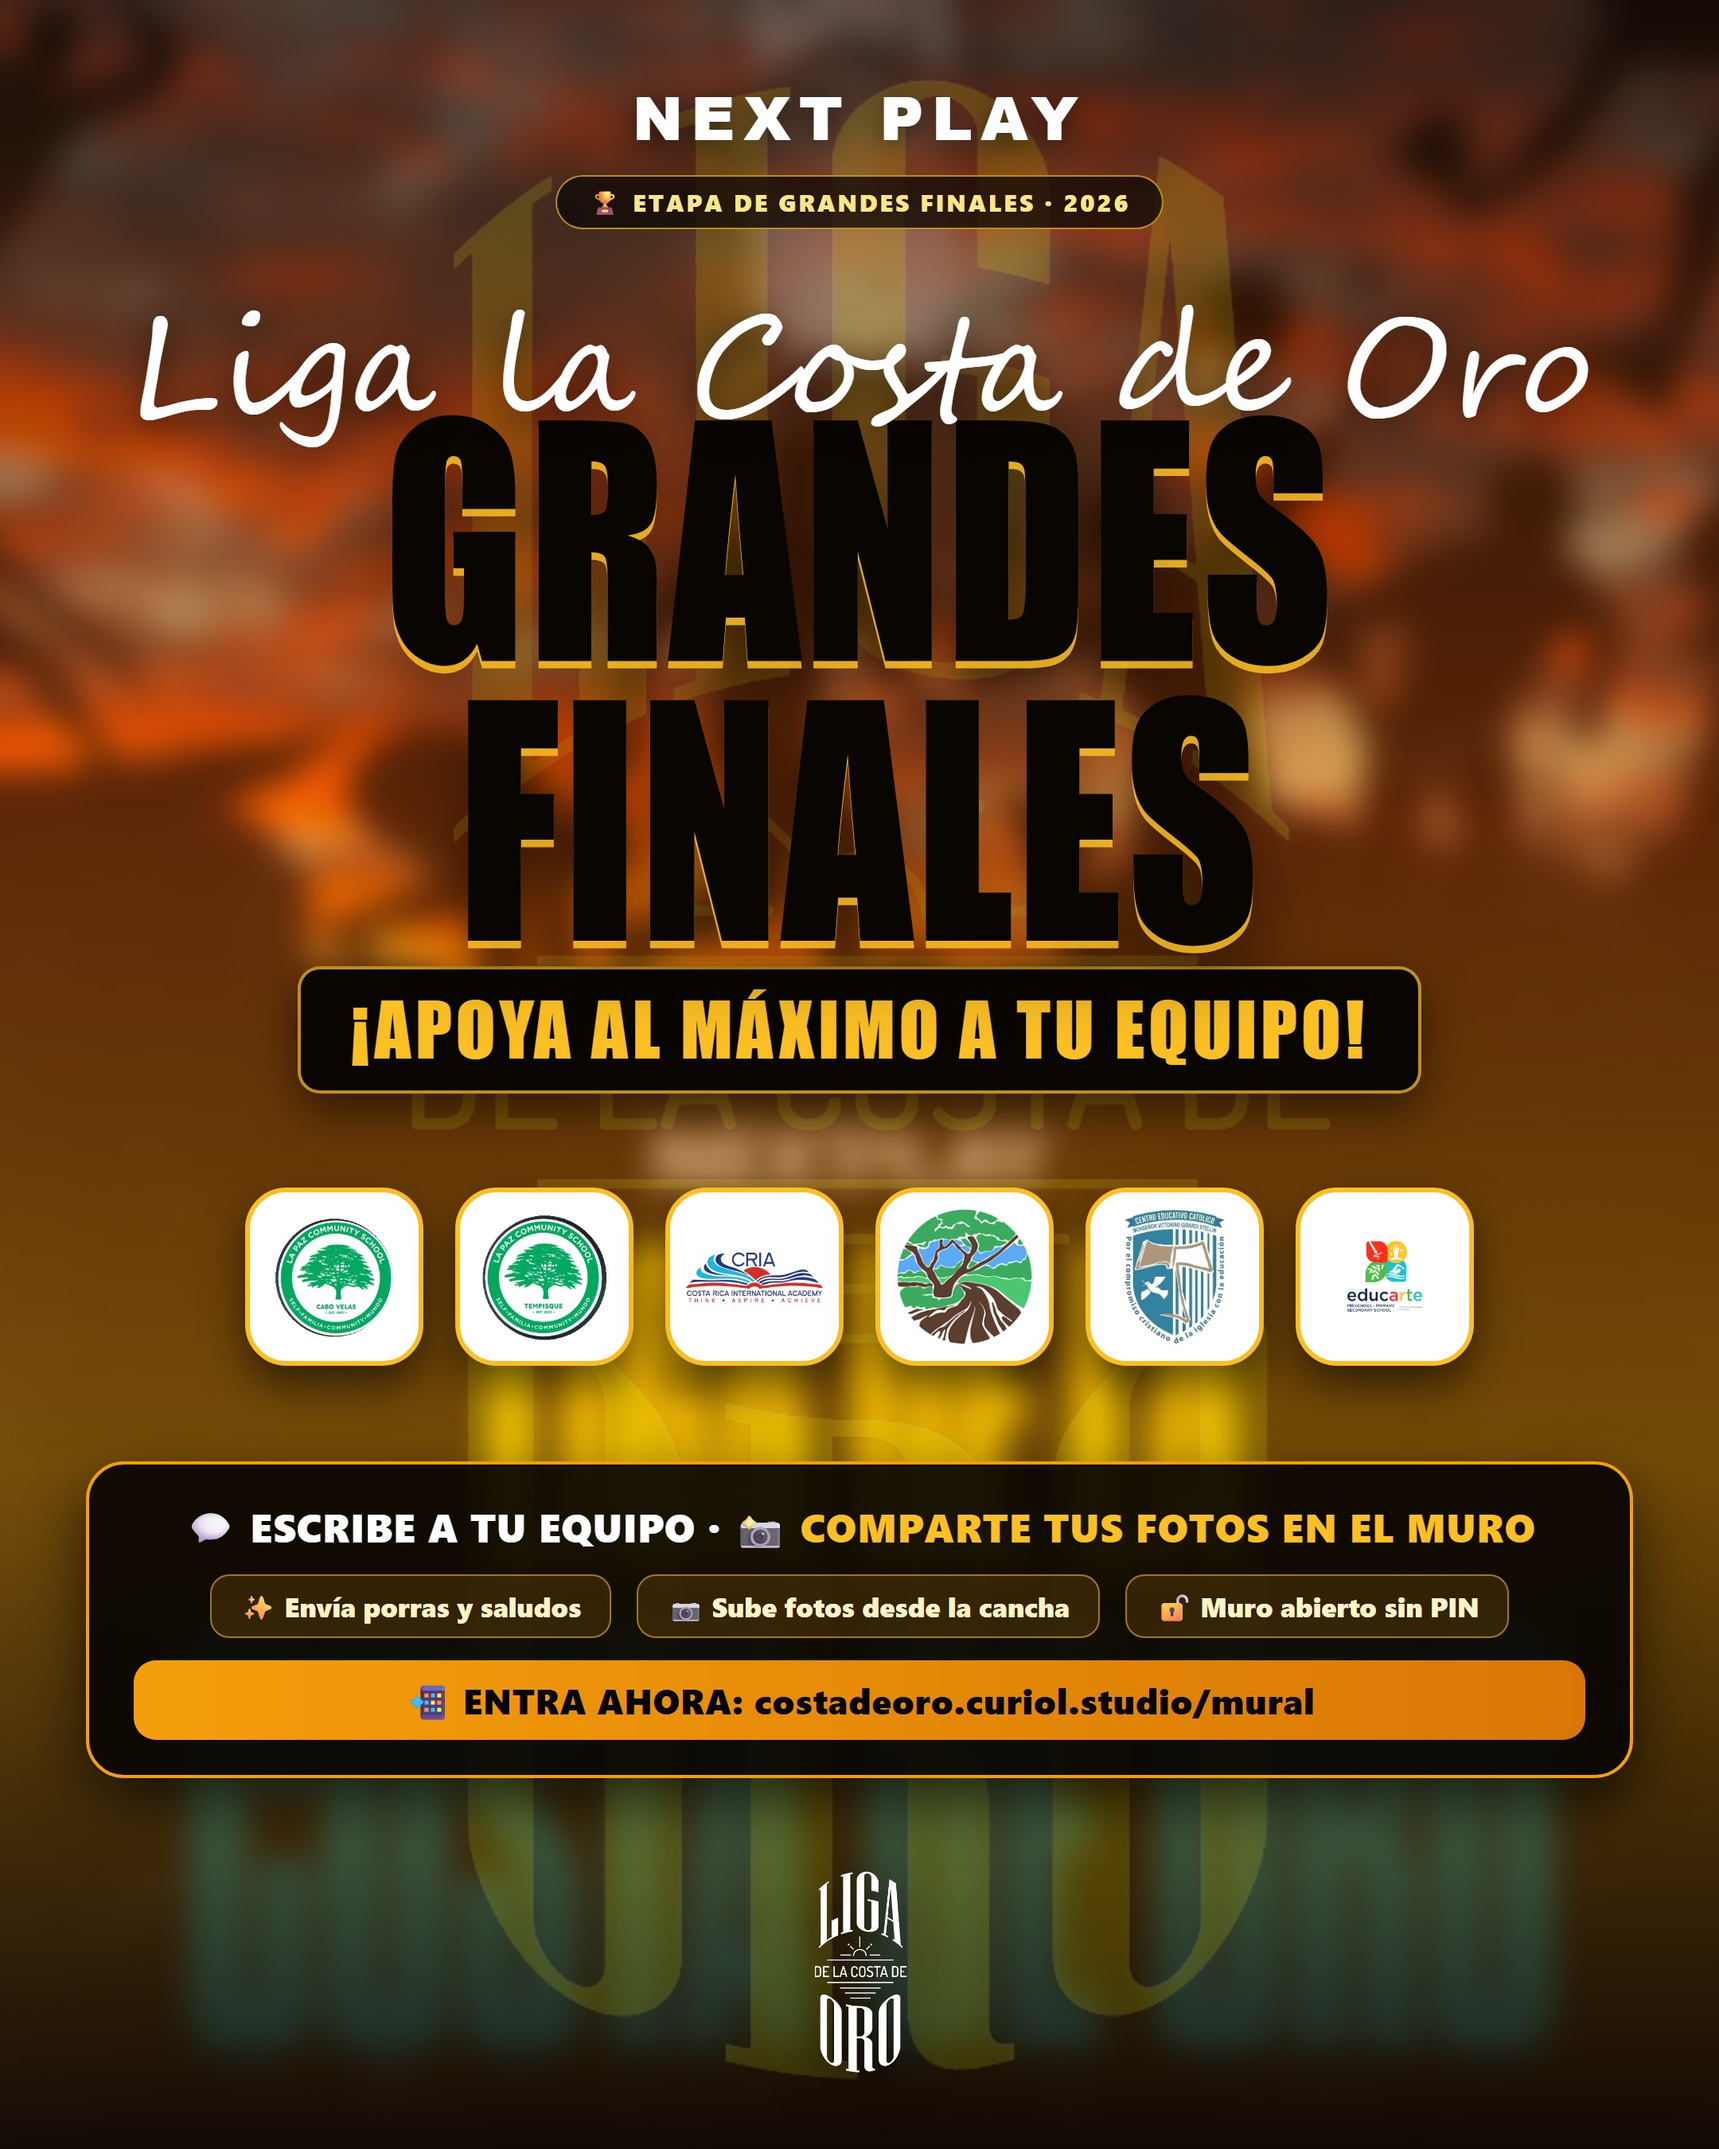
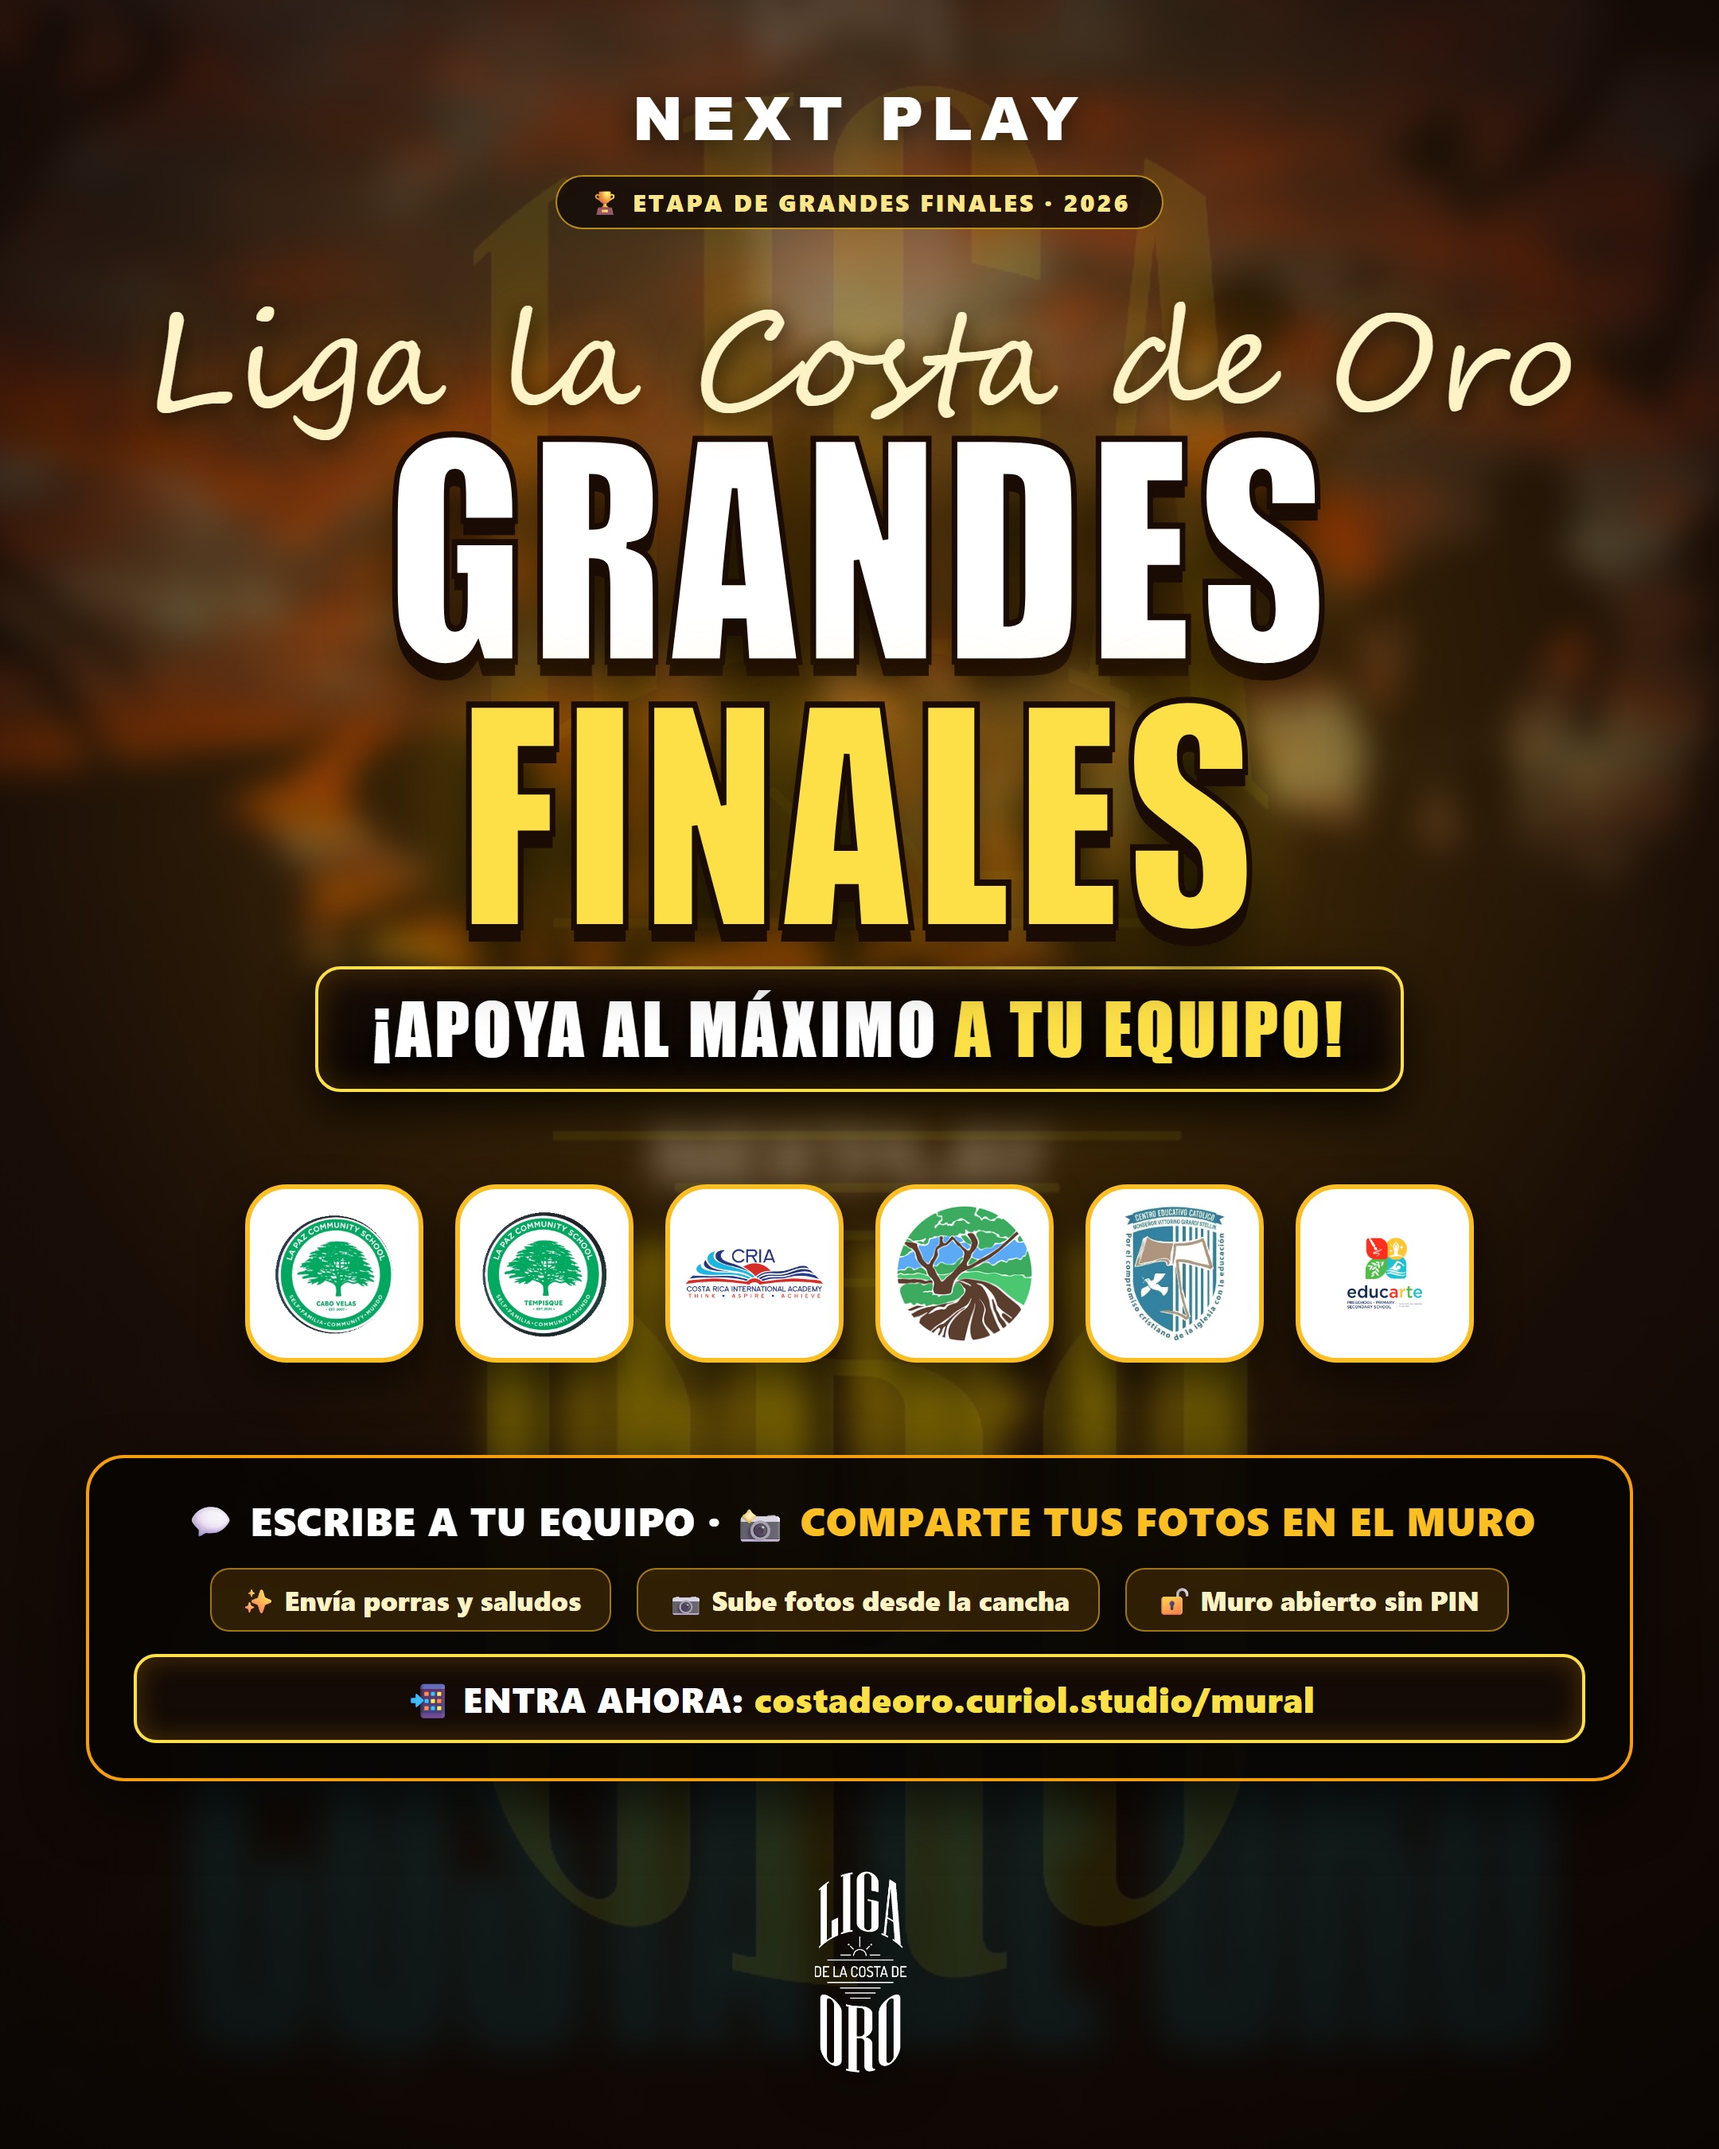
style(afiche-hero): eliminar texto negro y aplicar tipografia blanco y oro de alto contraste en Grandes Finales

diff --git a/src/app/page.tsx b/src/app/page.tsx
@@ -294,7 +294,7 @@ export default function HomePage() {
                 className="w-full sm:w-48 md:w-56 shrink-0 overflow-hidden rounded-xl border-2 border-amber-400/60 shadow-lg group cursor-pointer block"
               >
                 <img
-                  src="/images/afiche-grandes-finales-muro.jpg"
+                  src="/images/afiche-grandes-finales-muro.jpg?v=2"
                   alt="Afiche Oficial Grandes Finales · Apoya al máximo a tu equipo en el Muro"
                   className="w-full h-auto object-cover group-hover:scale-105 transition-transform duration-300"
                 />
